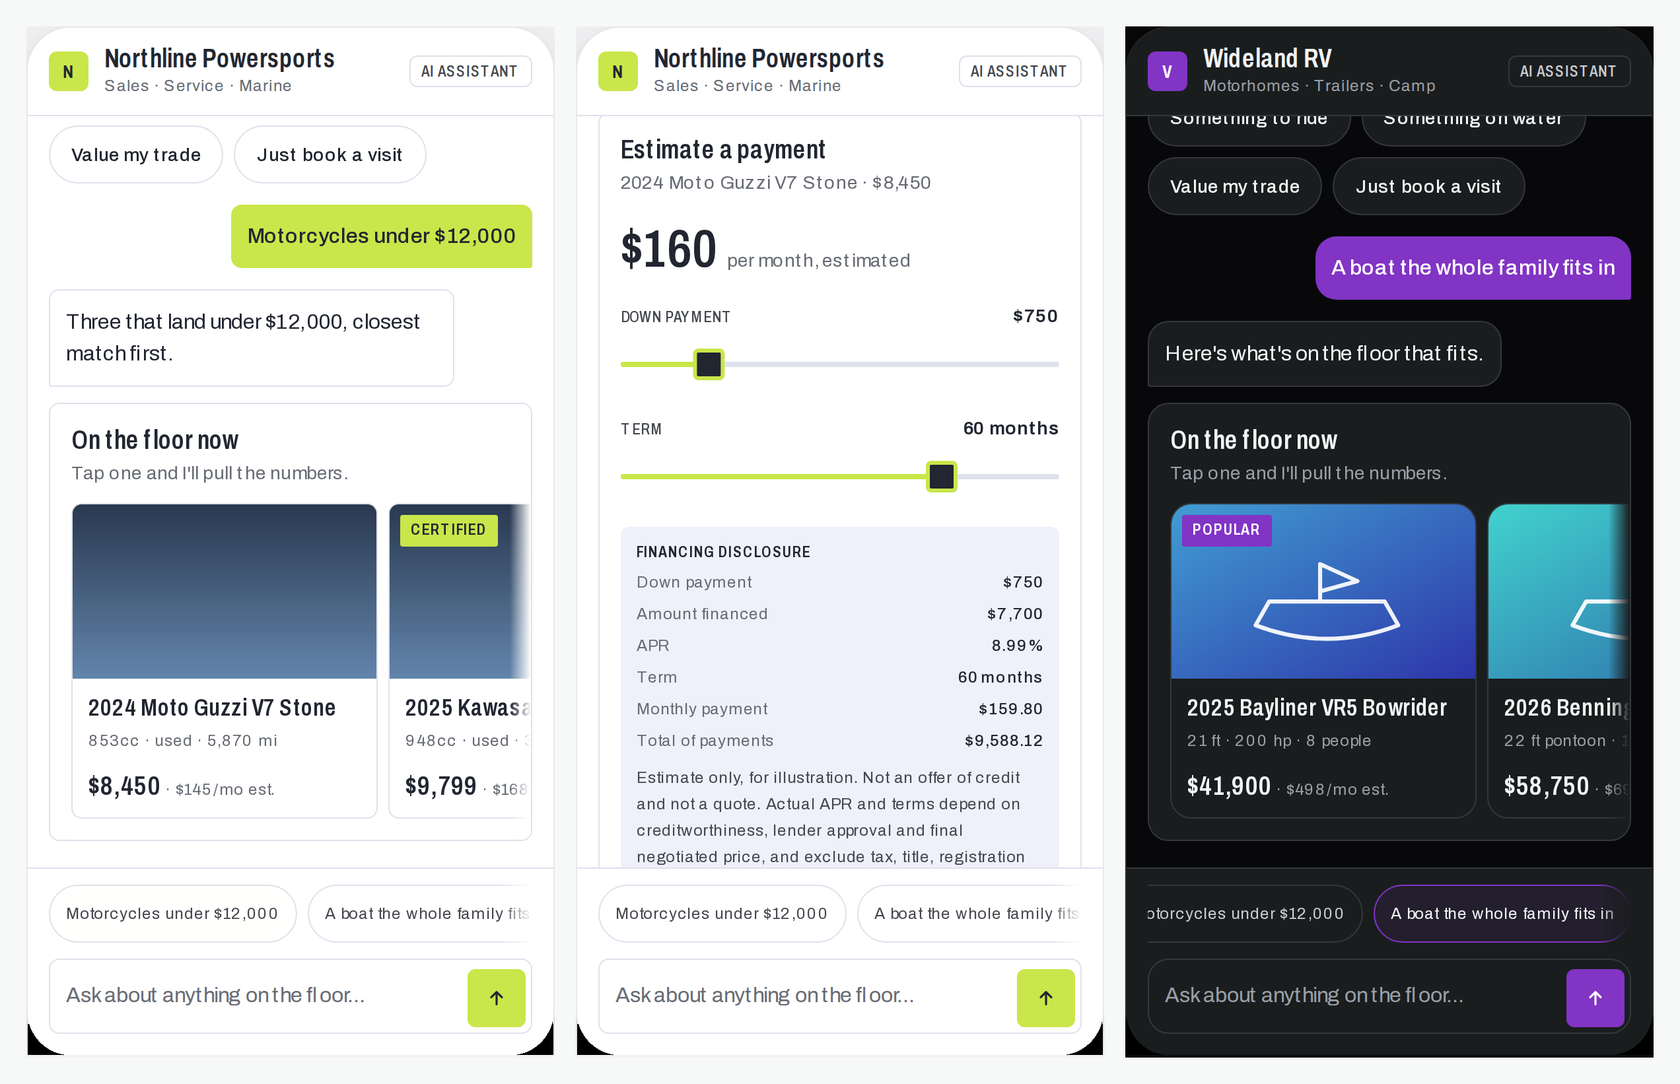
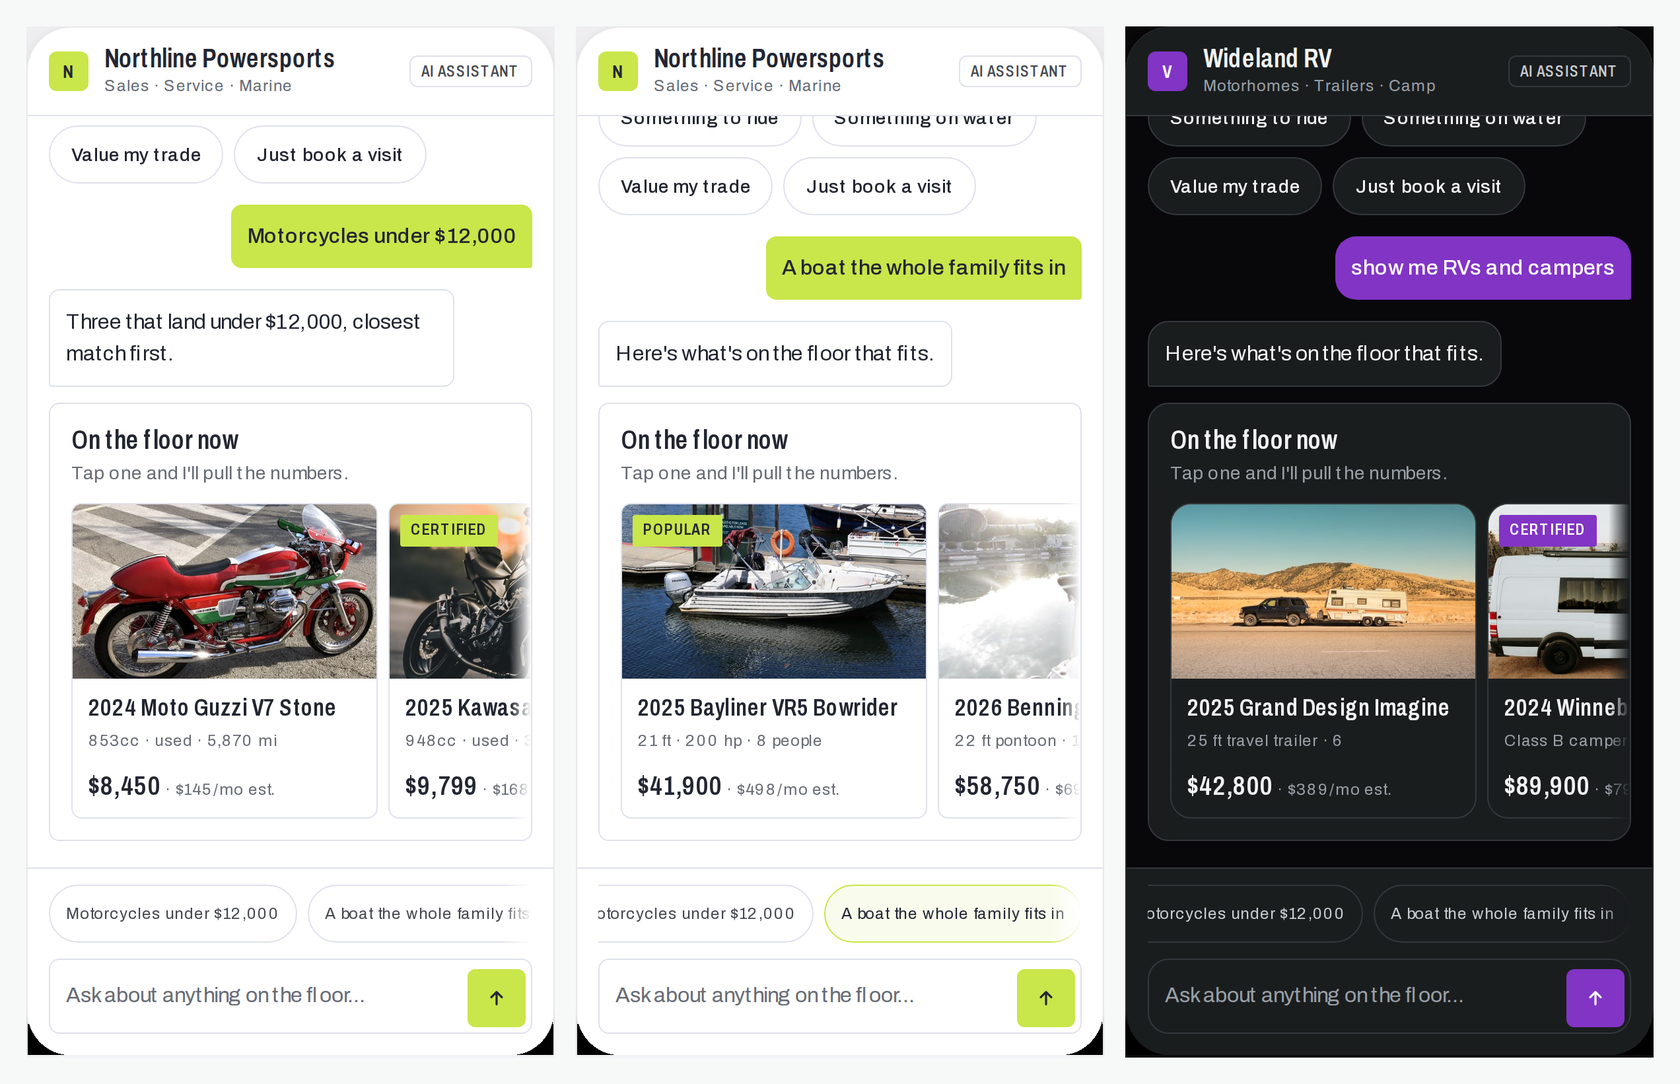
Bundle the unit photography, and teach the search about plurals
The twelve demo photos are now vendored under assets/units/ instead of
hot-linked. Both licences permit redistribution, and bundling them means the
demo works offline and does not depend on someone else's CDN staying up —
which matters for a repo whose whole pitch is that it runs from file://.

Each was cropped to the card's 1.758:1 slot, resized to 640x364 (2.75x the
rendered size) and re-encoded as progressive JPEG q78: 544 KB for all twelve,
down from 3.3 MB. Three needed a hand-placed crop rather than a centre one —
the BMW and the MT-09 are portrait frames with the subject off-centre
vertically, and the wake boat is a speck in a wide lake, so that one is
cropped in 2.1x. EXIF orientation is honoured before cropping, which is the
usual reason a phone photo comes out sideways in a grid.

Also fixes a real search bug the new photos made visible: "show me RVs and
campers" returned motorcycles. The tokenizer matched exact strings only, so
"rvs" missed the tag "rv" and "campers" matched nothing at all — and rather
than saying so, the fallback quietly returned the whole catalogue sorted by
price, which looks like an answer. Added a crude de-pluralisation and the
synonyms buyers actually type (utv, sxs, side-by-side, camper, motorhome,
pwc, bowrider, wakeboard).

Claude-Session: https://claude.ai/code/session_019rnzksPujZakA1Ymmwk66K

diff --git a/demo/inventory.js b/demo/inventory.js
@@ -7,43 +7,46 @@
 
    The photographs are real and freely licensed (Unsplash and Pexels) — see
    docs/CREDITS.md for every attribution and which ones are the exact model
-   versus a representative example of the same class. They are hot-linked
-   rather than vendored, so nothing copyrighted lands in this repo and the
-   renderer falls back to a generated silhouette when they cannot load.
+   versus a representative example of the same class. Both licences permit
+   redistribution, so they are vendored under assets/units/ rather than
+   hot-linked: the demo then works offline and does not depend on someone
+   else's CDN staying up. 640x364 each, cropped per-image, 544 KB for all
+   twelve. The renderer still falls back to a generated silhouette if one
+   fails to load.
    ========================================================================== */
 
 (function (global) {
   "use strict";
 
   const UNITS = [
-    { id: "mt09",  name: "2026 Yamaha MT-09",        category: "moto",   price: 10999, monthly: 189, meta: "890cc · new · 0 mi",        badge: "New",     hue: 208, cc: 890,  seats: 2, image: "https://images.pexels.com/photos/15887144/pexels-photo-15887144.jpeg?auto=compress&cs=tinysrgb&w=800", imageCredit: "OĞUZHAN YAVUZ / Pexels",
-             tags: ["moto","street","commuter","fast","cheap"] },
-    { id: "z900",  name: "2025 Kawasaki Z900",       category: "moto",   price:  9799, monthly: 168, meta: "948cc · used · 3,120 mi",   badge: "Certified", hue: 128, cc: 948, seats: 2, image: "https://images.unsplash.com/photo-1611241443333-bdcff35bc8cc?w=800&q=75&fm=jpg&fit=max", imageCredit: "Pairach Boriboonmee / Unsplash",
-             tags: ["moto","street","commuter","fast","cheap"] },
-    { id: "v7",    name: "2024 Moto Guzzi V7 Stone", category: "moto",   price:  8450, monthly: 145, meta: "853cc · used · 5,870 mi",   hue: 22,  cc: 853,  seats: 2, image: "https://images.unsplash.com/photo-1666950577090-96eeb9730e17?w=800&q=75&fm=jpg&fit=max", imageCredit: "Bob Osias / Unsplash",
-             tags: ["moto","street","retro","cheap"] },
-    { id: "gsa",   name: "2025 BMW R 1300 GS",       category: "moto",   price: 21995, monthly: 372, meta: "1300cc · new · 0 mi",       badge: "Flagship", hue: 196, cc: 1300, seats: 2, image: "https://images.unsplash.com/photo-1764747995620-5769dd04a66f?w=800&q=75&fm=jpg&fit=max", imageCredit: "Ilya Godze / Unsplash",
-             tags: ["moto","touring","adventure"] },
+    { id: "mt09",  name: "2026 Yamaha MT-09",        category: "moto",   price: 10999, monthly: 189, meta: "890cc · new · 0 mi",        badge: "New",     hue: 208, cc: 890,  seats: 2, image: "assets/units/mt09.jpg", imageCredit: "OĞUZHAN YAVUZ / Pexels",
+             tags: ["moto","motorcycle","bike","street","commuter","fast","cheap"] },
+    { id: "z900",  name: "2025 Kawasaki Z900",       category: "moto",   price:  9799, monthly: 168, meta: "948cc · used · 3,120 mi",   badge: "Certified", hue: 128, cc: 948, seats: 2, image: "assets/units/z900.jpg", imageCredit: "Pairach Boriboonmee / Unsplash",
+             tags: ["moto","motorcycle","bike","street","commuter","fast","cheap"] },
+    { id: "v7",    name: "2024 Moto Guzzi V7 Stone", category: "moto",   price:  8450, monthly: 145, meta: "853cc · used · 5,870 mi",   hue: 22,  cc: 853,  seats: 2, image: "assets/units/v7.jpg", imageCredit: "Bob Osias / Unsplash",
+             tags: ["moto","motorcycle","bike","street","retro","cheap"] },
+    { id: "gsa",   name: "2025 BMW R 1300 GS",       category: "moto",   price: 21995, monthly: 372, meta: "1300cc · new · 0 mi",       badge: "Flagship", hue: 196, cc: 1300, seats: 2, image: "assets/units/gsa.jpg", imageCredit: "Ilya Godze / Unsplash",
+             tags: ["moto","motorcycle","bike","touring","adventure"] },
 
-    { id: "rzr",   name: "2026 Polaris RZR Pro R",   category: "atv",    price: 34999, monthly: 589, meta: "2000cc · new · 4-seat",     badge: "New",     hue: 14,  cc: 2000, seats: 4, image: "https://images.unsplash.com/photo-1753376295626-becbc3765aaa?w=800&q=75&fm=jpg&fit=max", imageCredit: "Brandon Gardiner / Unsplash",
-             tags: ["atv","offroad","family","trail"] },
-    { id: "mav",   name: "2024 Can-Am Maverick X3",  category: "atv",    price: 26400, monthly: 447, meta: "900cc turbo · used · 610 h", hue: 40,  cc: 900,  seats: 2, image: "https://images.pexels.com/photos/23325251/pexels-photo-23325251.jpeg?auto=compress&cs=tinysrgb&w=800", imageCredit: "Joaquin Delgado / Pexels",
-             tags: ["atv","offroad","trail"] },
+    { id: "rzr",   name: "2026 Polaris RZR Pro R",   category: "atv",    price: 34999, monthly: 589, meta: "2000cc · new · 4-seat",     badge: "New",     hue: 14,  cc: 2000, seats: 4, image: "assets/units/rzr.jpg", imageCredit: "Brandon Gardiner / Unsplash",
+             tags: ["atv","utv","sxs","sidebyside","offroad","family","trail","buggy"] },
+    { id: "mav",   name: "2024 Can-Am Maverick X3",  category: "atv",    price: 26400, monthly: 447, meta: "900cc turbo · used · 610 h", hue: 40,  cc: 900,  seats: 2, image: "assets/units/mav.jpg", imageCredit: "Joaquin Delgado / Pexels",
+             tags: ["atv","utv","sxs","sidebyside","offroad","trail","buggy"] },
 
-    { id: "bow21", name: "2025 Bayliner VR5 Bowrider", category: "boat", price: 41900, monthly: 498, meta: "21 ft · 200 hp · 8 people", badge: "Popular", hue: 202, seats: 8, image: "https://images.pexels.com/photos/36893119/pexels-photo-36893119.jpeg?auto=compress&cs=tinysrgb&w=800", imageCredit: "Bal Jinder / Pexels",
-             tags: ["boat","family","lake","water"] },
-    { id: "pont",  name: "2026 Bennington 22 SVL",   category: "boat",   price: 58750, monthly: 691, meta: "22 ft pontoon · 10 people", hue: 178, seats: 10, image: "https://images.unsplash.com/photo-1765720499263-d57f57a86d2c?w=800&q=75&fm=jpg&fit=max", imageCredit: "Natalia Ailatan / Unsplash",
-             tags: ["boat","family","lake","pontoon","water"] },
-    { id: "wake",  name: "2024 Malibu Wakesetter",   category: "boat",   price: 96500, monthly: 1128, meta: "23 ft · surf system · 12", badge: "Premium", hue: 220, seats: 12, image: "https://images.pexels.com/photos/10890312/pexels-photo-10890312.jpeg?auto=compress&cs=tinysrgb&w=800", imageCredit: "Aiden Begg / Pexels",
-             tags: ["boat","wake","water","fast"] },
+    { id: "bow21", name: "2025 Bayliner VR5 Bowrider", category: "boat", price: 41900, monthly: 498, meta: "21 ft · 200 hp · 8 people", badge: "Popular", hue: 202, seats: 8, image: "assets/units/bow21.jpg", imageCredit: "Bal Jinder / Pexels",
+             tags: ["boat","bowrider","family","lake","water"] },
+    { id: "pont",  name: "2026 Bennington 22 SVL",   category: "boat",   price: 58750, monthly: 691, meta: "22 ft pontoon · 10 people", hue: 178, seats: 10, image: "assets/units/pont.jpg", imageCredit: "Natalia Ailatan / Unsplash",
+             tags: ["boat","pontoon","family","lake","water"] },
+    { id: "wake",  name: "2024 Malibu Wakesetter",   category: "boat",   price: 96500, monthly: 1128, meta: "23 ft · surf system · 12", badge: "Premium", hue: 220, seats: 12, image: "assets/units/wake.jpg", imageCredit: "Aiden Begg / Pexels",
+             tags: ["boat","wake","wakeboard","surf","water","fast"] },
 
-    { id: "ski",   name: "2026 Sea-Doo GTI SE 170",  category: "jetski", price: 12199, monthly: 209, meta: "170 hp · new · 3-seat",     badge: "New",     hue: 344, seats: 3, image: "https://images.pexels.com/photos/10931934/pexels-photo-10931934.jpeg?auto=compress&cs=tinysrgb&w=800", imageCredit: "Anton Kudryashov / Pexels",
-             tags: ["jetski","water","fast","cheap"] },
+    { id: "ski",   name: "2026 Sea-Doo GTI SE 170",  category: "jetski", price: 12199, monthly: 209, meta: "170 hp · new · 3-seat",     badge: "New",     hue: 344, seats: 3, image: "assets/units/ski.jpg", imageCredit: "Anton Kudryashov / Pexels",
+             tags: ["jetski","pwc","seadoo","water","fast","cheap"] },
 
-    { id: "tt25",  name: "2025 Grand Design Imagine", category: "rv",    price: 42800, monthly: 389, meta: "25 ft travel trailer · 6",  hue: 32,  seats: 6, image: "https://images.unsplash.com/photo-1520101244246-293f77ffc39e?w=800&q=75&fm=jpg&fit=max", imageCredit: "Benjamin Zanatta / Unsplash",
-             tags: ["rv","family","travel","trailer"] },
-    { id: "cls",   name: "2024 Winnebago Solis 59P", category: "rv",     price: 89900, monthly: 792, meta: "Class B camper van · 4",    badge: "Certified", hue: 96, seats: 4, image: "https://images.unsplash.com/photo-1688619104633-b05bc632aca7?w=800&q=75&fm=jpg&fit=max", imageCredit: "Negley Stockman / Unsplash",
-             tags: ["rv","travel","van","couple"] }
+    { id: "tt25",  name: "2025 Grand Design Imagine", category: "rv",    price: 42800, monthly: 389, meta: "25 ft travel trailer · 6",  hue: 32,  seats: 6, image: "assets/units/tt25.jpg", imageCredit: "Benjamin Zanatta / Unsplash",
+             tags: ["rv","rvs","camper","camping","family","travel","trailer","towable"] },
+    { id: "cls",   name: "2024 Winnebago Solis 59P", category: "rv",     price: 89900, monthly: 792, meta: "Class B camper van · 4",    badge: "Certified", hue: 96, seats: 4, image: "assets/units/cls.jpg", imageCredit: "Negley Stockman / Unsplash",
+             tags: ["rv","rvs","camper","campervan","motorhome","travel","van","couple"] }
   ];
 
   const SPECS = {
@@ -102,7 +105,12 @@
       let score = 0;
       const hay = norm(u.name + " " + u.category + " " + u.tags.join(" "));
       words.forEach((w) => {
-        if (hay.indexOf(w) !== -1) score += 3;
+        // Try the word, then a crude de-pluralisation. "RVs" and "campers"
+        // are how people actually type, and an exact-match tokenizer silently
+        // returns the whole catalogue sorted by price instead of saying so.
+        if (hay.indexOf(w) !== -1) { score += 3; return; }
+        const singular = w.replace(/(?:ies)$/, "y").replace(/(?:es|s)$/, "");
+        if (singular.length >= 3 && hay.indexOf(singular) !== -1) score += 3;
       });
       if (budget) {
         if (u.price <= budget) score += 4;

diff --git a/docs/CREDITS.md b/docs/CREDITS.md
@@ -21,9 +21,11 @@ Shipped as `assets/fonts/*.woff2`: six weights (Archivo 400/500/600/700, Archivo
 
 ## Photographs
 
-Every photograph in the demo is **hot-linked, not vendored** — no image binary is committed here, so this repo redistributes none of them. Each is freely licensed at its source and permits commercial use without attribution; the credits below are given anyway, because not crediting a photographer you didn't pay is a choice rather than a requirement.
+Every photograph in the demo is **vendored** under `assets/units/`. Both licences below permit redistribution, and bundling them means the demo works offline and does not depend on someone else's CDN staying up. Neither licence requires attribution; the credits are given anyway, because not crediting a photographer you didn't pay is a choice rather than a requirement.
 
-If the images fail to load — offline, blocked CDN, GitHub Pages without network — the renderer drops the `<img>` and falls back to the generated silhouette. The demo is designed to look intentional either way.
+Each file was cropped to the card's 1.758:1 slot, resized to 640×364 (2.75× the rendered size) and re-encoded as progressive JPEG at quality 78 — **544 KB for all twelve, down from 3.3 MB** of originals. Three needed a hand-placed crop rather than a centre one: the BMW and the MT-09 are portrait shots where the subject is off-centre vertically, and the wake boat is a speck in a wide lake, so that one is cropped in 2.1×.
+
+If an image fails to load anyway, the renderer drops the `<img>` and falls back to the generated silhouette. The demo is designed to look intentional either way.
 
 ### Exact model
 

diff --git a/README.md b/README.md
@@ -145,7 +145,7 @@ This is why the tenant surface is five tokens rather than four. A high-chroma ac
 
 Units carry an `image` URL, and the renderer draws it with the generated silhouette underneath as a fallback — so a blocked CDN or an offline demo degrades to something designed rather than to a broken-image icon.
 
-The demo's photos are real, freely licensed (Unsplash and Pexels), and **hot-linked rather than vendored**, so no image binary is committed here. [`docs/CREDITS.md`](docs/CREDITS.md) lists every attribution and is explicit about which are the exact model and which are a representative example of the same class. In production none of that applies: `image` points at the dealer's own inventory photography, which they own.
+The demo's twelve photos are real and freely licensed (Unsplash and Pexels — both permit redistribution), cropped per-image to the card slot and re-encoded: **544 KB for all twelve, down from 3.3 MB.** They are bundled rather than hot-linked so the demo works offline and does not depend on someone else's CDN. [`docs/CREDITS.md`](docs/CREDITS.md) lists every attribution and is explicit about which are the exact model and which are a representative example of the same class. In production none of that applies: `image` points at the dealer's own inventory photography, which they own.
 
 ## The eight components
 
